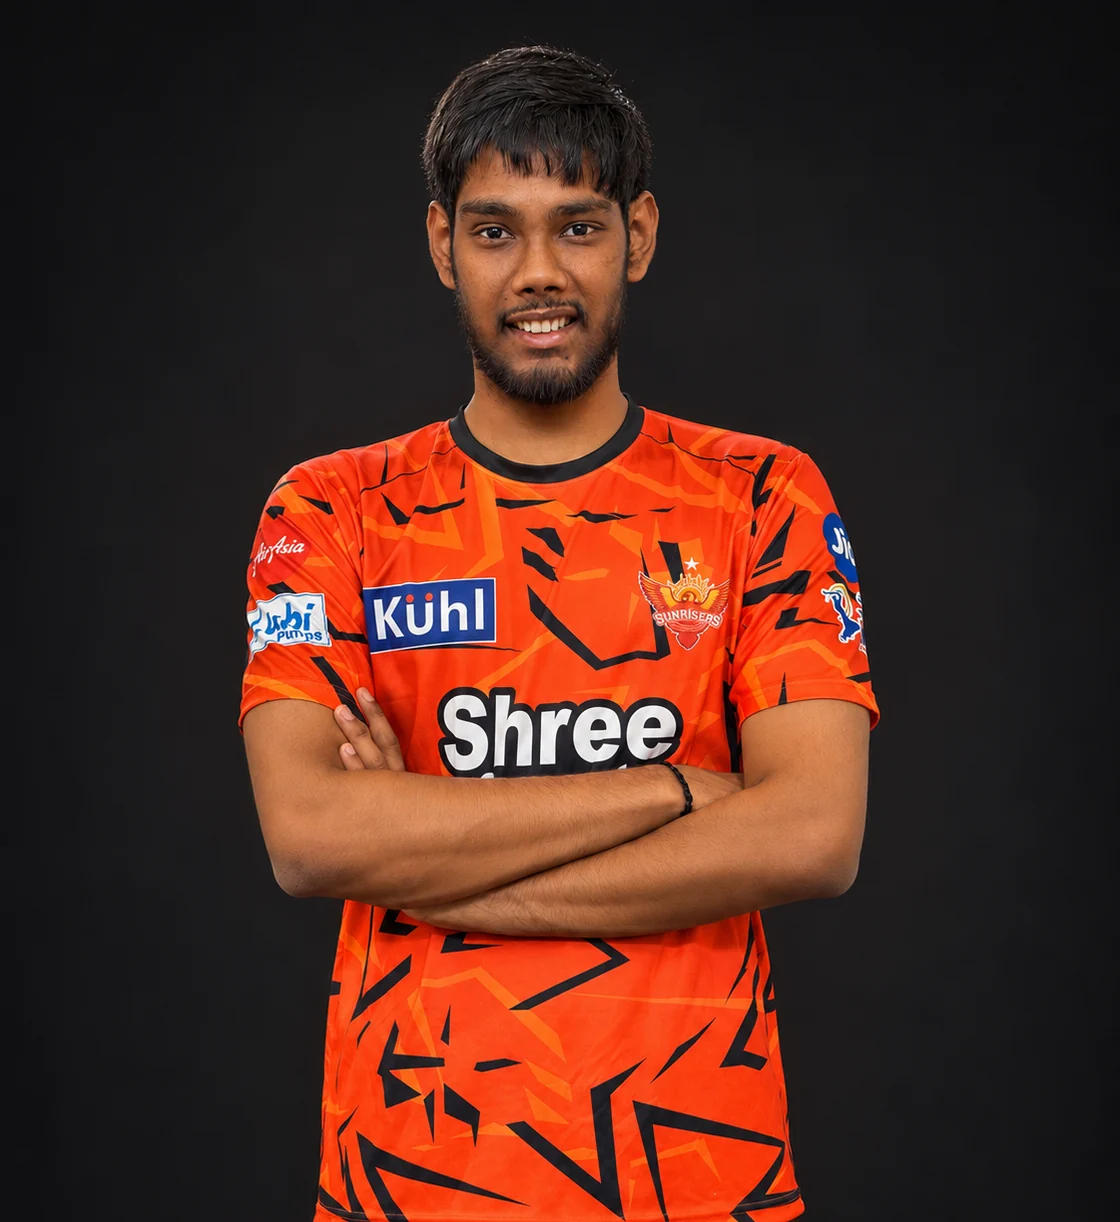
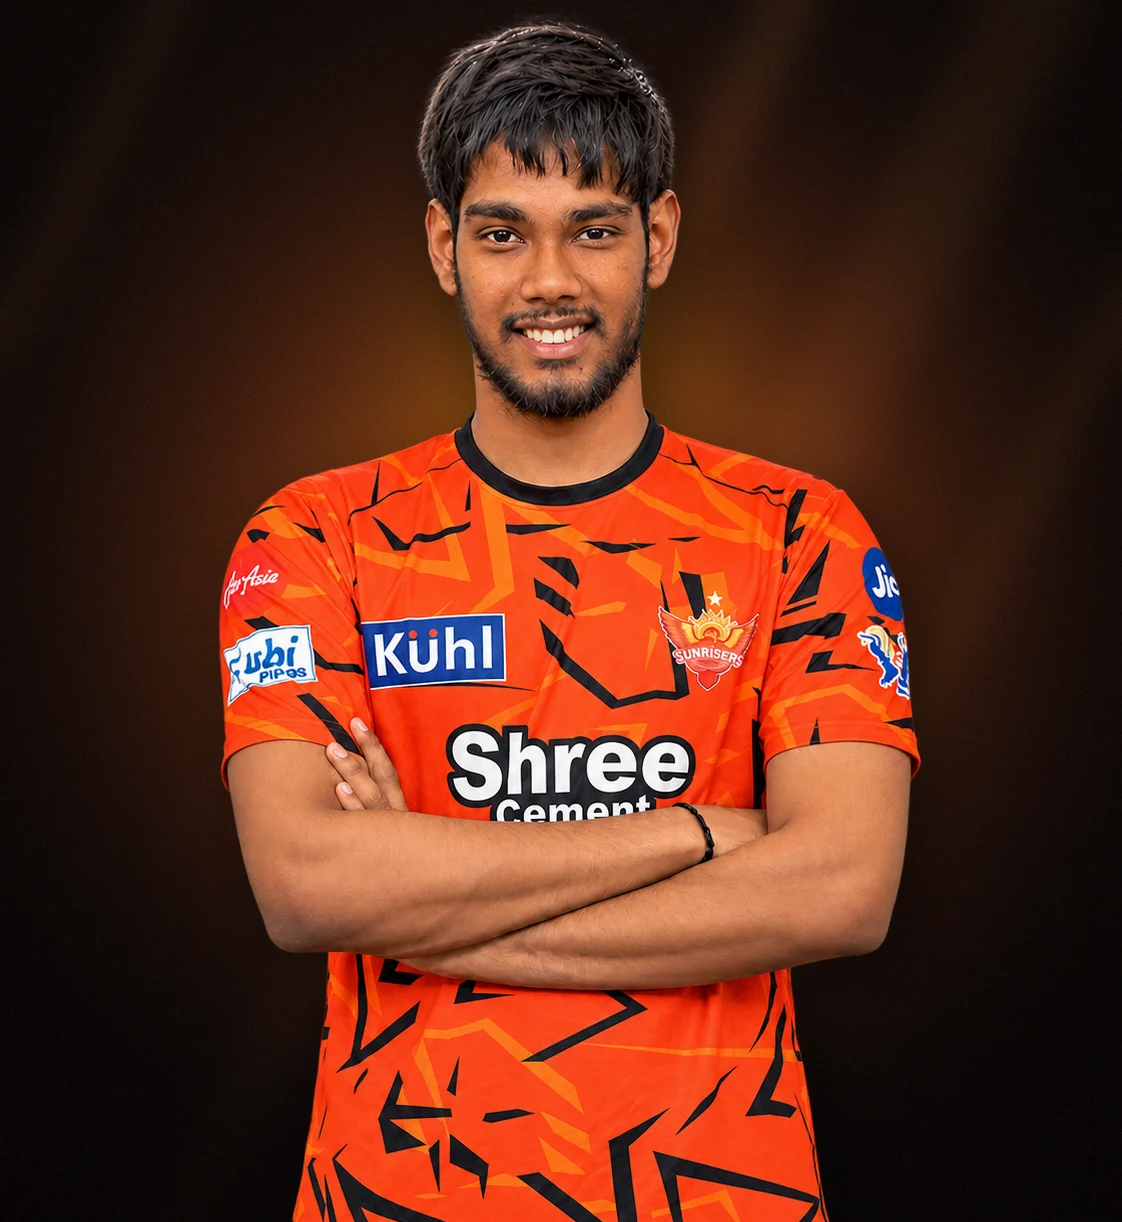
Fanzone lot photo: new smiling arms-crossed pose on an orange glow; Orange Army card uses mic photo
Claude-Session: https://claude.ai/code/session_018yCDpejobBH6E38wx2Ux6E

diff --git a/srh/v3.js b/srh/v3.js
@@ -361,7 +361,7 @@
       kicker: 'Events · SMG Club', title: 'An auction students asked to repeat.', text: 'An IPL auction for the Masters’ Union SMG Club. Ten student teams planned their budgets around live bidding and surprise wildcards, like a star player ruled out injured mid-auction. It ran on time and within its ₹5K budget. Masters’ Union’s Student Union President rated it the best event across the 13 student clubs, and students asked us to run another.', nums: [['Top', 'event of MU’s 13 clubs, per the Student Union President'], ['Repeat', 'event requested by students'], ['60', 'students, 10 teams']], role2: 'My role: ran it end to end.', video: 'media/video/auction.mp4', poster: 'media/photos/auction-draft.webp' },
     { num: '06', badge: '55+', role: 'Analyst', name: 'Research desk', line: 'New product, 2 clients; delivery 7 → 2–3 days', img: 'media/photos/blazer-full.webp', pos: '50% 15%',
       kicker: 'Work · The Business Research Company', title: 'The research desk.', text: 'Nearly 3 years as an associate consultant: 55+ market research reports across 10 industries and 5 regions. I proposed a green hydrogen database that TBRC turned into a new product, sold to 2 clients at $10K each. I proposed an automated drafting workflow that doubled weekly output from 2 to 4, and cut report delivery from 7 to 2–3 business days. I also ran first-level QC on every report and wrote proposal sample pages for 500–600 reports for the sales team.', nums: [['2', 'clients for my database, at $10K each'], ['7 → 2–3', 'business days to deliver a report'], ['2 → 4', 'reports a week, my workflow']], role2: 'My role: researched, wrote and QC’d reports; proposed the database and the workflow.' },
-    { num: '07', badge: 'Fan', role: 'Orange Army', name: 'Orange Army', line: 'Hyderabad, through and through', crest: true, dimg: 'media/photos/portrait-mic.webp',
+    { num: '07', badge: 'Fan', role: 'Orange Army', name: 'Orange Army', line: 'Hyderabad, through and through', crest: true, dimg: 'media/photos/about-mic.webp?v=1',
       kicker: 'Fan · Hyderabad', title: 'Orange Army, from the stands.', text: 'IPL nights in the stands at Uppal, Hyderabad. The crowd is the part of the game I want to work on: what brings fans back, and what keeps them between seasons.', nums: [['Hyderabad', 'home ground'], ['3', 'Sunrisers teams to follow']], role2: 'Looking for: a fan engagement and brand role across the Sunrisers teams.' },
     { num: '08', badge: '₹2L+', role: 'Founder', name: 'Entrepreneur', line: 'A ₹2L+ dropshipping store, and Vortilix', img: 'media/projects/better-store/stall-table.webp', pos: '50% 20%',
       kicker: 'Founder · Masters’ Union', title: 'Two businesses from zero.', text: 'The Better Store, a dropshipping store run from a campus stall, made ₹2L+ in revenue. Now I’m co-founding Vortilix, a nutraceutical focus shot, in the Masters’ Union Venture Initiation Program.', nums: [['₹2L+', 'Better Store revenue'], ['3', 'Vortilix co-founders']], role2: 'My role: products, suppliers, pricing and marketing at the store; marketing and go-to-market at Vortilix.', dimg: 'media/projects/better-store/stall-crouch.webp' },

diff --git a/srh/index.html b/srh/index.html
@@ -13,7 +13,7 @@
 <link rel="preload" href="fonts/anton-latin.woff2" as="font" type="font/woff2" crossorigin>
 <link rel="preload" href="media/photos/hero-hips.webp?v=6" as="image">
 <link rel="stylesheet" href="fonts/fonts.css">
-<link rel="stylesheet" href="v3.css?v=1795719002">
+<link rel="stylesheet" href="v3.css?v=1795719558">
 <noscript><style>.hero-copy>*,.hero-me,.hero-heat,.hero-word,.hero-shards,[data-reveal],.bids li{opacity:1!important;transform:none!important}</style></noscript>
 </head>
 <body class="intro">
@@ -284,7 +284,7 @@
 <!-- ============================== FANZONE (auction finale + contact) ============================== -->
 <section class="sec fan" id="fanzone" aria-labelledby="fan-h">
   <div class="lot" id="lot">
-    <div class="lot-photo"><img src="media/photos/portrait-arms.webp?v=1795635861" alt="Anudeep in the Sunrisers Hyderabad jersey, arms crossed" loading="lazy"><span class="mono lot-tag">Lot 01 · Uncapped</span></div>
+    <div class="lot-photo"><img src="media/photos/portrait-arms.webp?v=1795719521" alt="Anudeep in the Sunrisers Hyderabad jersey, arms crossed" loading="lazy"><span class="mono lot-tag">Lot 01 · Uncapped</span></div>
     <div class="lot-body">
       <b class="lot-name">Anudeep Gupta</b>
       <span>Strategy · Fans · Partnerships</span>
@@ -450,6 +450,6 @@
 <script src="vendor/gsap.min.js"></script>
 <script src="vendor/ScrollTrigger.min.js"></script>
 <script src="vendor/lenis.min.js"></script>
-<script src="v3.js?v=1795719002"></script>
+<script src="v3.js?v=1795719558"></script>
 </body>
 </html>

diff --git a/srh/v3.css b/srh/v3.css
@@ -336,7 +336,7 @@ p{margin:0}
 .lot{max-width:440px;border-radius:22px;overflow:hidden;background:var(--or);color:#0a0a0b;box-shadow:0 40px 80px -30px rgba(242,101,34,.8);transform:rotate(-2deg)}
 .lot-photo{position:relative;aspect-ratio:4/4.3;background:#c4480f}
 .lot-photo img{width:100%;height:100%;object-fit:cover;object-position:50% 25%}
-.lot-tag{position:absolute;left:14px;top:14px;padding:7px 10px;border-radius:8px;background:#0a0a0b;color:var(--or)}
+.lot-tag{position:absolute;left:14px;bottom:14px;padding:7px 10px;border-radius:8px;background:#0a0a0b;color:var(--or)}
 .lot-body{padding:20px 22px 22px;display:flex;flex-direction:column;gap:4px}
 .lot-name{font:400 42px/.95 var(--disp);text-transform:uppercase}
 .lot-body>span{font-weight:700}

diff --git a/srh/case.html b/srh/case.html
@@ -11,7 +11,7 @@
 <meta name="theme-color" content="#0a0a0b">
 <link rel="preload" href="fonts/anton-latin.woff2" as="font" type="font/woff2" crossorigin>
 <link rel="stylesheet" href="fonts/fonts.css">
-<link rel="stylesheet" href="v3.css?v=1795719002">
+<link rel="stylesheet" href="v3.css?v=1795719558">
 <style>
 .c-hero{position:relative;min-height:78svh;display:flex;align-items:flex-end;padding:120px var(--pad) 60px;overflow:hidden;isolation:isolate}
 .c-hero-img{position:absolute;inset:0;z-index:-2}
